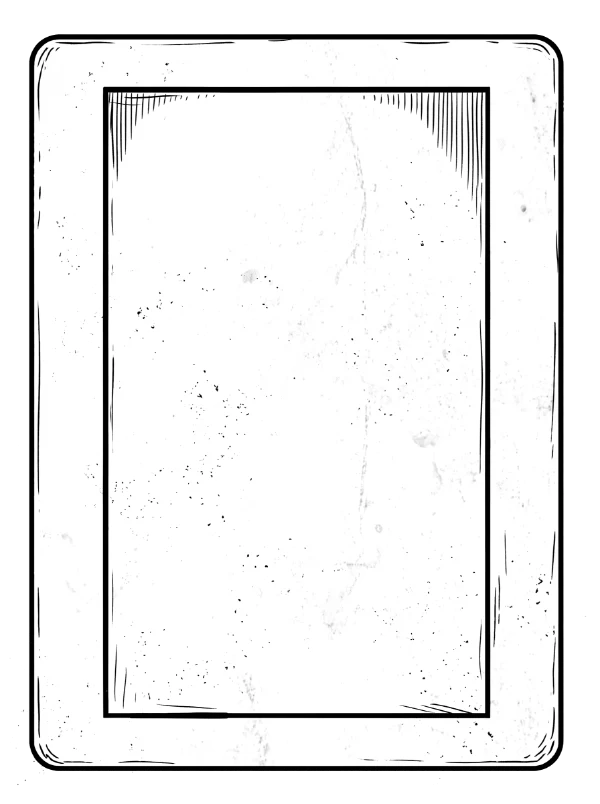
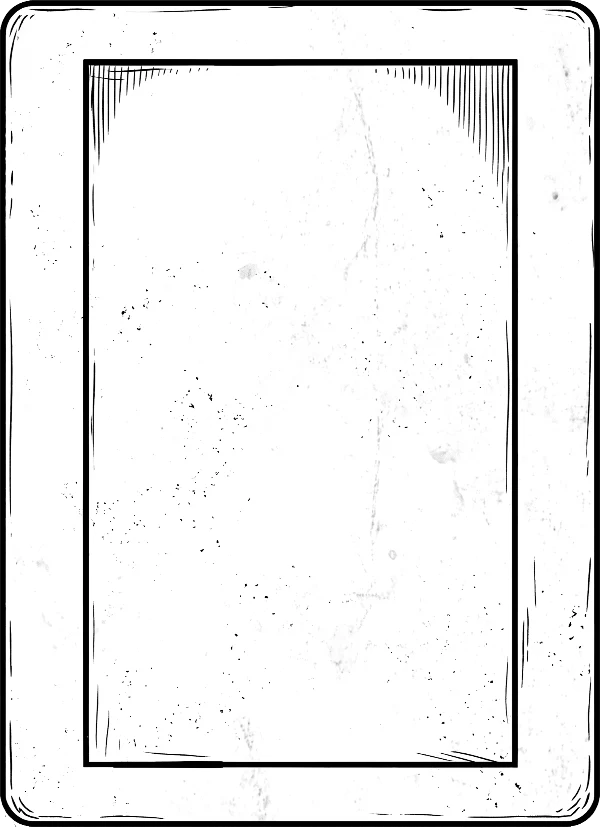
Fundo das cartas recortado na borda preta, sem a borda branca extra

diff --git a/index.html b/index.html
@@ -14,7 +14,7 @@
   <link rel="preload" href="arte/menu/papelao.webp" as="image">
   <link rel="preload" href="arte/menu/naipes.webp" as="image">
   <link rel="preload" href="arte/menu/logo.webp" as="image">
-  <link rel="stylesheet" href="estilo.css?v=202610272328">
+  <link rel="stylesheet" href="estilo.css?v=202610272334">
 </head>
 <body>
   <div id="palco">
@@ -67,20 +67,20 @@
   <div id="modal" hidden></div>
   <div id="dica" hidden></div>
 
-  <script defer src="js/idioma.js?v=202610272328"></script>
-  <script defer src="js/libs.js?v=202610272328"></script>
-  <script defer src="js/motor.js?v=202610272328"></script>
-  <script defer src="js/palhacos.js?v=202610272328"></script>
-  <script defer src="js/pesos.js?v=202610272328"></script>
-  <script defer src="js/bot.js?v=202610272328"></script>
-  <script defer src="js/cartas.js?v=202610272328"></script>
-  <script defer src="js/som.js?v=202610272328"></script>
-  <script defer src="js/dados3d.js?v=202610272328"></script>
-  <script defer src="js/decks.js?v=202610272328"></script>
-  <script defer src="js/regras.js?v=202610272328"></script>
-  <script defer src="js/rede.js?v=202610272328"></script>
-  <script defer src="js/decoracao.js?v=202610272328"></script>
-  <script defer src="js/tutorial.js?v=202610272328"></script>
-  <script defer src="js/interface.js?v=202610272328"></script>
+  <script defer src="js/idioma.js?v=202610272334"></script>
+  <script defer src="js/libs.js?v=202610272334"></script>
+  <script defer src="js/motor.js?v=202610272334"></script>
+  <script defer src="js/palhacos.js?v=202610272334"></script>
+  <script defer src="js/pesos.js?v=202610272334"></script>
+  <script defer src="js/bot.js?v=202610272334"></script>
+  <script defer src="js/cartas.js?v=202610272334"></script>
+  <script defer src="js/som.js?v=202610272334"></script>
+  <script defer src="js/dados3d.js?v=202610272334"></script>
+  <script defer src="js/decks.js?v=202610272334"></script>
+  <script defer src="js/regras.js?v=202610272334"></script>
+  <script defer src="js/rede.js?v=202610272334"></script>
+  <script defer src="js/decoracao.js?v=202610272334"></script>
+  <script defer src="js/tutorial.js?v=202610272334"></script>
+  <script defer src="js/interface.js?v=202610272334"></script>
 </body>
 </html>

diff --git a/js/cartas.js b/js/cartas.js
@@ -45,8 +45,8 @@ window.SS = window.SS || {};
 
   function canto(c) {
     const dez = c.rank === '10';
-    // (na faixa lateral da moldura do fundo, abaixo da borda de cima)
-    return `<text x="23" y="60" font-size="${dez ? 22 : 28}"${dez ? ' letter-spacing="-3"' : ''} text-anchor="middle" fill="${COR[c.naipe]}" font-family="${FONTE}" font-weight="700">${c.rank}</text>${pip(c.naipe, 23, 78, 22, false)}`;
+    // (na faixa lateral da moldura do fundo, entre a borda de fora e o quadro de dentro)
+    return `<text x="15" y="50" font-size="${dez ? 19 : 24}"${dez ? ' letter-spacing="-3"' : ''} text-anchor="middle" fill="${COR[c.naipe]}" font-family="${FONTE}" font-weight="700">${c.rank}</text>${pip(c.naipe, 15, 67, 19, false)}`;
   }
 
   const GLIFO = { J: '♞', Q: '♛', K: '♚' };

diff --git a/estilo.css b/estilo.css
@@ -66,6 +66,8 @@ html, body {
   border-radius: 7px; background: #fdfbf3; box-shadow: 4px 6px 0 rgba(5, 18, 2, .45), 0 1px 2px rgba(0, 0, 0, .5);
 }
 .carta .svg-carta { display: block; width: 100%; height: 100%; }
+/* Frente: o fundo desenhado ocupa a carta inteira, com cantos próprios (sem o creme por trás). Dorso e pilha vazia não mudam. */
+.carta:not(.dorso):not(.vazia):has(> .svg-carta) { background: none; }
 .carta.dorso { background-size: 100% 100%; }
 .carta.dorso.vermelho { background-image: var(--dorso-vermelho); }
 .carta.dorso.azul { background-image: var(--dorso-azul); }
